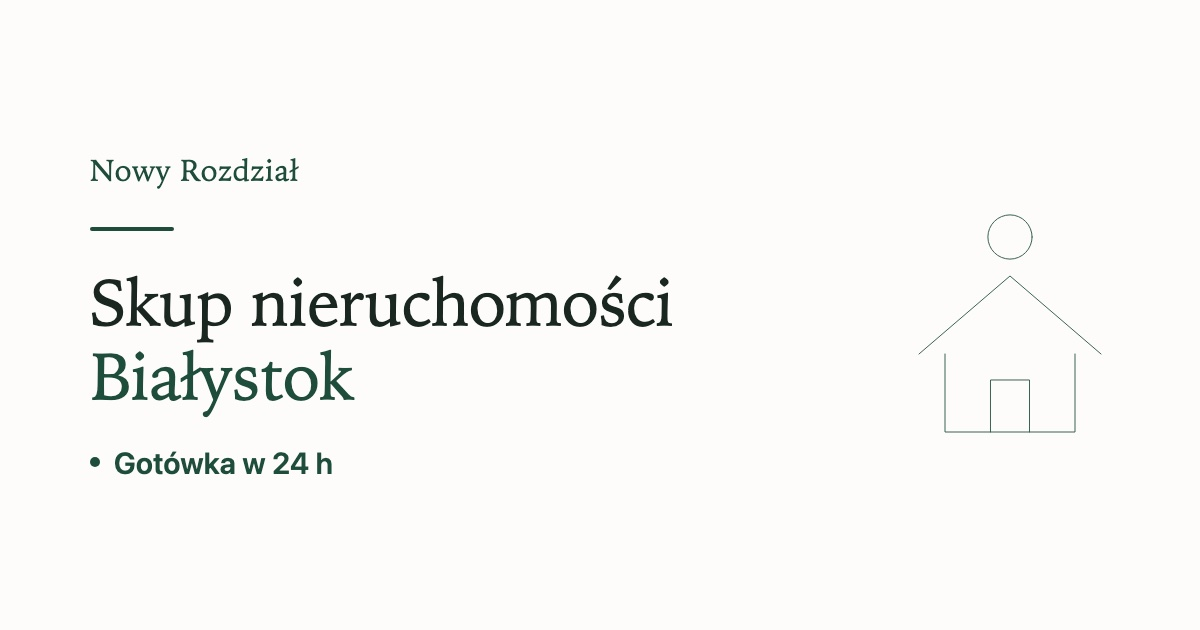
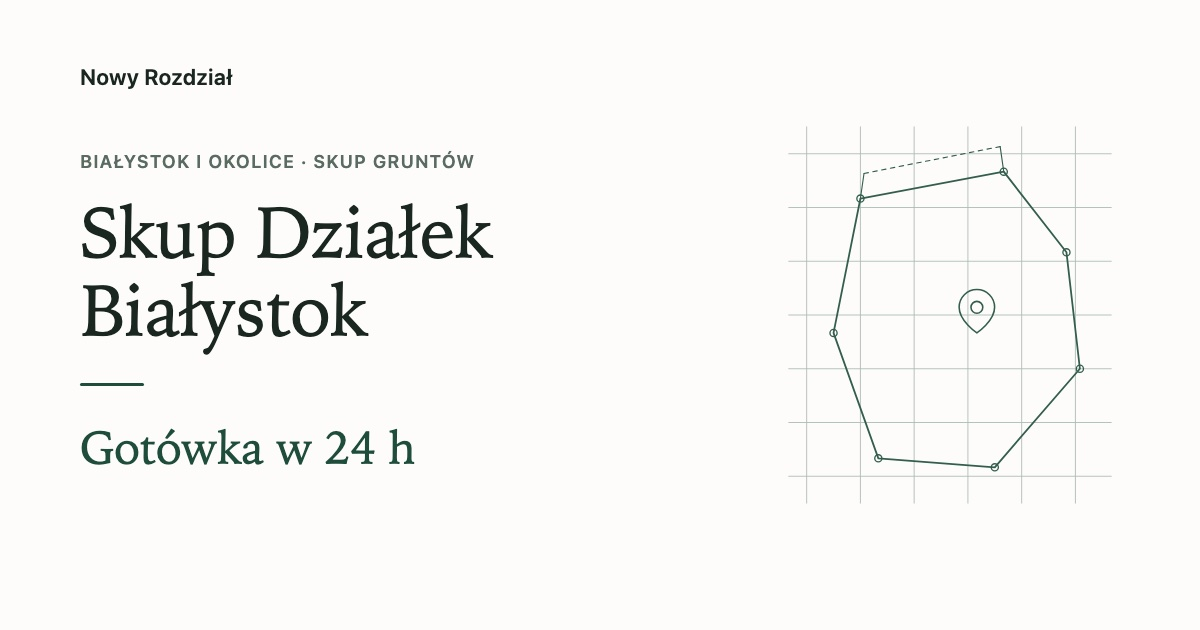
feat(dzialki): hero, SEO i formularz pod skup gruntów

diff --git a/index.html b/index.html
@@ -6,9 +6,9 @@
 
   <!-- Primary Meta Tags -->
   <!-- city -->
-  <title>Skup Nieruchomości Białystok — Gotówka w 24h | Nowy Rozdział</title>
+  <title>Skup Działek Białystok — Gotówka w 24h | Nowy Rozdział</title>
   <!-- city -->
-  <meta name="description" content="Skupujemy działki, domy i mieszkania w Białymstoku i okolicach. Bezpłatna wycena w 24 h, 0 zł prowizji, gotówka u notariusza. Zadzwoń: 500 441 500." />
+  <meta name="description" content="Skupujemy działki budowlane, zabudowane i inwestycyjne w Białymstoku i okolicach. Wycena w 24 h, 0 zł kosztów, gotówka u notariusza. Tel. 500 441 500." />
   <!-- city -->
   <meta name="geo.placename" content="Białystok" />
   <meta name="geo.region" content="PL" />
@@ -17,9 +17,9 @@
   <!-- Open Graph -->
   <meta property="og:type" content="website" />
   <!-- city -->
-  <meta property="og:title" content="Skup Nieruchomości Białystok — Gotówka w 24h | Nowy Rozdział" />
+  <meta property="og:title" content="Skup Działek Białystok — Gotówka w 24h | Nowy Rozdział" />
   <!-- city -->
-  <meta property="og:description" content="Skupujemy działki, domy i mieszkania w Białymstoku i okolicach. Bezpłatna wycena w 24 h, 0 zł prowizji, gotówka u notariusza. Zadzwoń: 500 441 500." />
+  <meta property="og:description" content="Skupujemy działki budowlane, zabudowane i inwestycyjne w Białymstoku i okolicach. Wycena w 24 h, 0 zł kosztów, gotówka u notariusza. Tel. 500 441 500." />
   <meta property="og:image" content="https://nowyrozdzial.pl/assets/img/og-image.jpg" />
   <meta property="og:image:width" content="1200" />
   <meta property="og:image:height" content="630" />
@@ -28,9 +28,9 @@
   <!-- Twitter -->
   <meta name="twitter:card" content="summary_large_image" />
   <!-- city -->
-  <meta name="twitter:title" content="Skup Nieruchomości Białystok — Gotówka w 24h | Nowy Rozdział" />
+  <meta name="twitter:title" content="Skup Działek Białystok — Gotówka w 24h | Nowy Rozdział" />
   <!-- city -->
-  <meta name="twitter:description" content="Skupujemy działki, domy i mieszkania w Białymstoku i okolicach. Bezpłatna wycena w 24 h, 0 zł prowizji, gotówka u notariusza. Zadzwoń: 500 441 500." />
+  <meta name="twitter:description" content="Skupujemy działki budowlane, zabudowane i inwestycyjne w Białymstoku i okolicach. Wycena w 24 h, 0 zł kosztów, gotówka u notariusza. Tel. 500 441 500." />
   <meta name="twitter:image" content="https://nowyrozdzial.pl/assets/img/og-image.jpg" />
 
   <!-- Canonical -->
@@ -67,12 +67,13 @@
     <section class="hero">
       <div class="container hero__inner">
         <div class="hero__content">
-          <h1 class="hero__title">Skup nieruchomości Białystok — gotówka w 24 h</h1>
+          <p class="hero__eyebrow">Białystok i okolice · skup gruntów</p>
+          <h1 class="hero__title">Twoja działka ma dziś kupca.</h1>
           <p class="hero__lead">
-            Kupujemy działki, domy i mieszkania za gotówkę. Bez prowizji, bez pośredników.
+            Skupujemy działki w Białymstoku i okolicach. Konkretna wycena w 24 godziny, gotówka przy akcie notarialnym.
           </p>
           <div class="hero__cta">
-            <a href="#wycena" class="btn btn--primary">Wyceń nieruchomość</a>
+            <a href="#wycena" class="btn btn--primary">Poznaj wycenę w 24 h</a>
             <a href="tel:+48500441500" class="btn btn--ghost">
               <svg width="16" height="16" viewBox="0 0 24 24" fill="none" stroke="currentColor" stroke-width="2" stroke-linecap="round" stroke-linejoin="round" aria-hidden="true">
                 <path d="M22 16.92v3a2 2 0 0 1-2.18 2 19.79 19.79 0 0 1-8.63-3.07 19.5 19.5 0 0 1-6-6 19.79 19.79 0 0 1-3.07-8.67A2 2 0 0 1 4.11 2h3a2 2 0 0 1 2 1.72c.127.96.361 1.903.7 2.81a2 2 0 0 1-.45 2.11L8.09 9.91a16 16 0 0 0 6 6l1.27-1.27a2 2 0 0 1 2.11-.45c.907.339 1.85.573 2.81.7A2 2 0 0 1 22 16.92z"/>
@@ -81,33 +82,50 @@
             </a>
           </div>
           <ul class="trust-bar">
-            <li>Decyzja w 24 h</li>
-            <li>0 zł prowizji</li>
-            <li>Umowa u notariusza</li>
+            <li><strong class="trust-bar__num">24 h</strong> — wycena</li>
+            <li><strong class="trust-bar__num">14 dni</strong> — średnio do aktu</li>
+            <li><strong class="trust-bar__num">0 zł</strong> — kosztów po Twojej stronie</li>
           </ul>
         </div>
 
         <div class="hero__graphic" aria-hidden="true">
           <svg viewBox="0 0 400 480" fill="none" stroke="var(--color-accent)" stroke-width="1.5" stroke-linecap="round" stroke-linejoin="round" opacity="0.9" focusable="false">
-            <path d="M50 150 L200 50 L350 150" />
-            <rect x="260" y="70" width="18" height="50" />
-            <rect x="70" y="150" width="260" height="290" />
-            <line x1="70" y1="230" x2="330" y2="230" />
-            <line x1="70" y1="310" x2="330" y2="310" />
-            <line x1="70" y1="390" x2="330" y2="390" />
-            <rect x="97.5" y="165" width="50" height="50" />
-            <rect x="175" y="165" width="50" height="50" />
-            <rect x="252.5" y="165" width="50" height="50" />
-            <rect x="97.5" y="245" width="50" height="50" />
-            <rect x="175" y="245" width="50" height="50" />
-            <rect x="252.5" y="245" width="50" height="50" />
-            <rect x="97.5" y="325" width="50" height="50" />
-            <rect x="175" y="325" width="50" height="50" />
-            <rect x="252.5" y="325" width="50" height="50" />
-            <rect x="97.5" y="405" width="50" height="35" />
-            <rect x="252.5" y="405" width="50" height="35" />
-            <path d="M175 440 V405 A25 25 0 0 1 225 405 V440" />
-            <line x1="30" y1="452" x2="370" y2="452" />
+            <g stroke-width="1" opacity="0.4">
+              <line x1="20" y1="60" x2="380" y2="60" />
+              <line x1="20" y1="120" x2="380" y2="120" />
+              <line x1="20" y1="180" x2="380" y2="180" />
+              <line x1="20" y1="240" x2="380" y2="240" />
+              <line x1="20" y1="300" x2="380" y2="300" />
+              <line x1="20" y1="360" x2="380" y2="360" />
+              <line x1="20" y1="420" x2="380" y2="420" />
+              <line x1="40" y1="30" x2="40" y2="450" />
+              <line x1="100" y1="30" x2="100" y2="450" />
+              <line x1="160" y1="30" x2="160" y2="450" />
+              <line x1="220" y1="30" x2="220" y2="450" />
+              <line x1="280" y1="30" x2="280" y2="450" />
+              <line x1="340" y1="30" x2="340" y2="450" />
+            </g>
+
+            <path d="M100 110 L260 80 L330 170 L345 300 L250 410 L120 400 L70 260 Z" stroke-width="2" />
+
+            <circle cx="100" cy="110" r="4" stroke-width="1.5" />
+            <circle cx="260" cy="80" r="4" stroke-width="1.5" />
+            <circle cx="330" cy="170" r="4" stroke-width="1.5" />
+            <circle cx="345" cy="300" r="4" stroke-width="1.5" />
+            <circle cx="250" cy="410" r="4" stroke-width="1.5" />
+            <circle cx="120" cy="400" r="4" stroke-width="1.5" />
+            <circle cx="70" cy="260" r="4" stroke-width="1.5" />
+
+            <g stroke-width="1.25">
+              <line x1="100" y1="110" x2="104" y2="82" />
+              <line x1="260" y1="80" x2="256" y2="52" />
+              <line x1="104" y1="82" x2="256" y2="52" stroke-dasharray="5 5" />
+            </g>
+
+            <g transform="translate(203.6,209.4) scale(2.2)" stroke-width="0.8">
+              <path d="M21 10c0 7-9 13-9 13s-9-6-9-13a9 9 0 0 1 18 0z" />
+              <circle cx="12" cy="10" r="3" />
+            </g>
           </svg>
         </div>
       </div>
@@ -131,8 +149,8 @@
             </div>
 
             <div class="form__field">
-              <label for="location">Lokalizacja</label>
-              <input type="text" id="location" name="location" autocomplete="address-level2" placeholder="np. Białystok, Antoniuk" aria-describedby="error-location" />
+              <label for="location">Adres lub numer działki</label>
+              <input type="text" id="location" name="location" autocomplete="address-level2" placeholder="np. Białystok, ul. Ciołkowskiego / dz. 152/3" aria-describedby="error-location" />
               <p class="form__error" id="error-location" data-error-for="location" role="alert"></p>
             </div>
 
@@ -140,16 +158,16 @@
               <span class="form__label">Typ nieruchomości*</span>
               <div class="segmented" role="radiogroup" aria-label="Typ nieruchomości" aria-describedby="error-type">
                 <label class="form__pill">
-                  <input type="radio" name="type" value="Działka" required />
+                  <input type="radio" name="type" value="dzialka" required />
                   <span>Działka</span>
                 </label>
                 <label class="form__pill">
-                  <input type="radio" name="type" value="Dom" required />
+                  <input type="radio" name="type" value="dom" required />
                   <span>Dom</span>
                 </label>
                 <label class="form__pill">
-                  <input type="radio" name="type" value="Mieszkanie" required />
-                  <span>Mieszkanie</span>
+                  <input type="radio" name="type" value="komercyjna" required />
+                  <span>Komercyjna</span>
                 </label>
               </div>
               <p class="form__error" id="error-type" data-error-for="type" role="alert"></p>

diff --git a/assets/css/styles.css b/assets/css/styles.css
@@ -226,6 +226,16 @@ section {
   max-width: 46ch;
 }
 
+.hero__eyebrow {
+  font-family: var(--font-sans);
+  font-size: 0.8125rem;
+  font-weight: 600;
+  letter-spacing: 0.06em;
+  text-transform: uppercase;
+  color: var(--color-ink-soft);
+  margin-bottom: -12px;
+}
+
 .hero__title {
   line-height: 1.08;
   letter-spacing: -0.01em;
@@ -270,6 +280,13 @@ section {
   content: "\00B7";
   margin-inline: 12px;
   color: var(--color-ink-soft);
+}
+
+.trust-bar__num {
+  font-family: var(--font-serif);
+  font-weight: 400;
+  font-size: 1.25em;
+  color: var(--color-ink);
 }
 
 @media (max-width: 900px) {

diff --git a/assets/js/form.js b/assets/js/form.js
@@ -1,7 +1,9 @@
 /**
  * form.js — walidacja i wysyłka skróconego (3-polowego) formularza wyceny do Web3Forms.
  *
- * Pola: phone (wymagane), location (opcjonalne), type (segmented radio, wymagane), consent (wymagane).
+ * Pola: phone (wymagane), location — "Adres lub numer działki" (opcjonalne),
+ *   type — segmented radio Działka/Dom/Komercyjna, wartości dzialka/dom/komercyjna
+ *   (wymagane), consent (wymagane).
  * Format danych: multipart/form-data.
  * API: https://api.web3forms.com/submit
  * Po sukcesie: redirect na /dziekujemy.html (JS, po odpowiedzi fetch).
